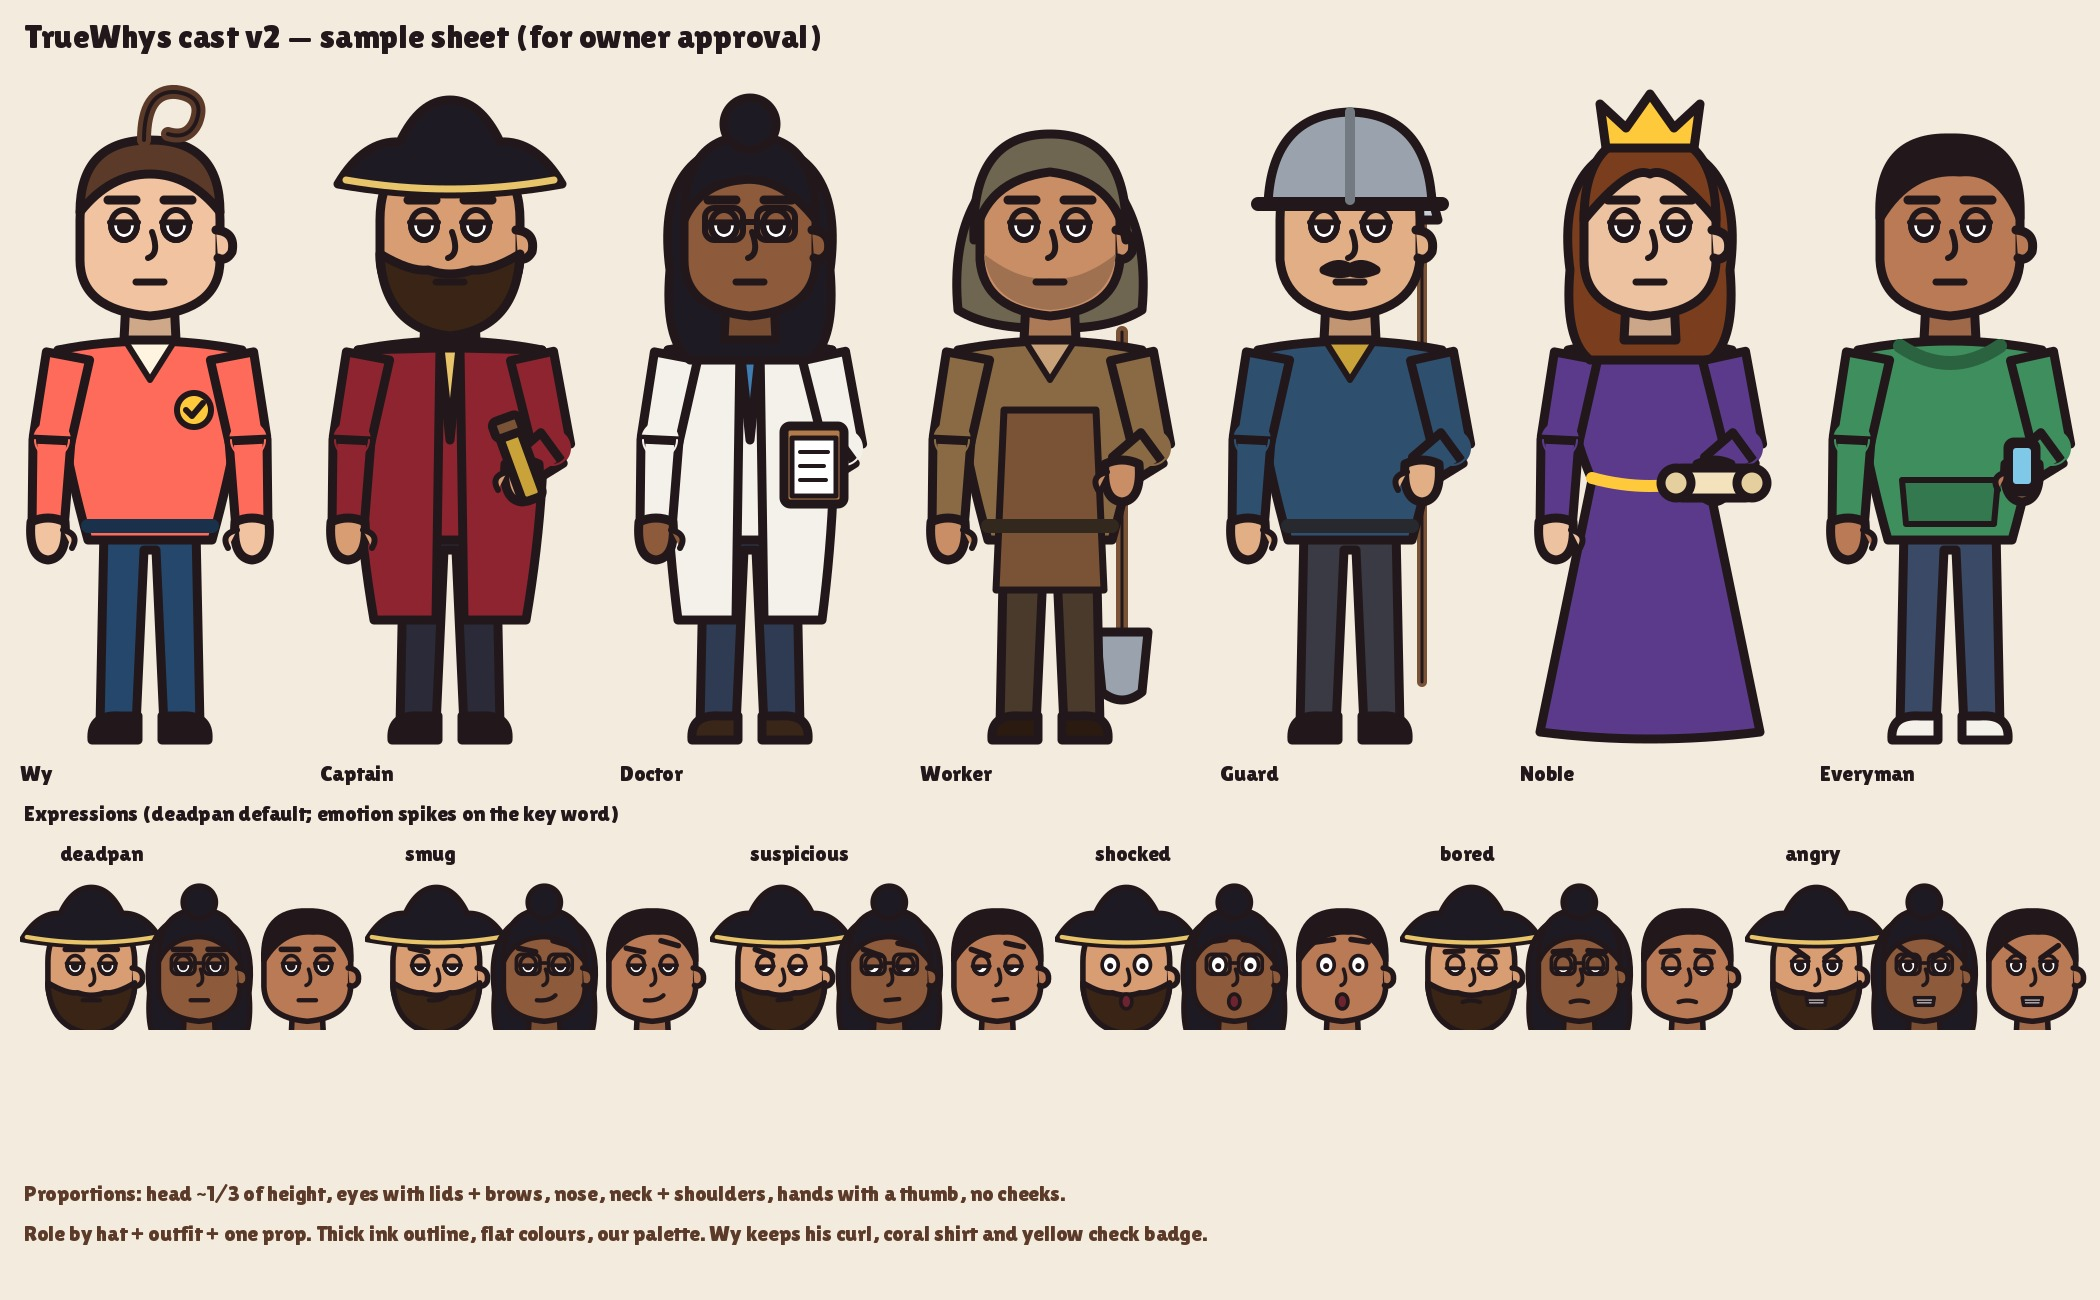
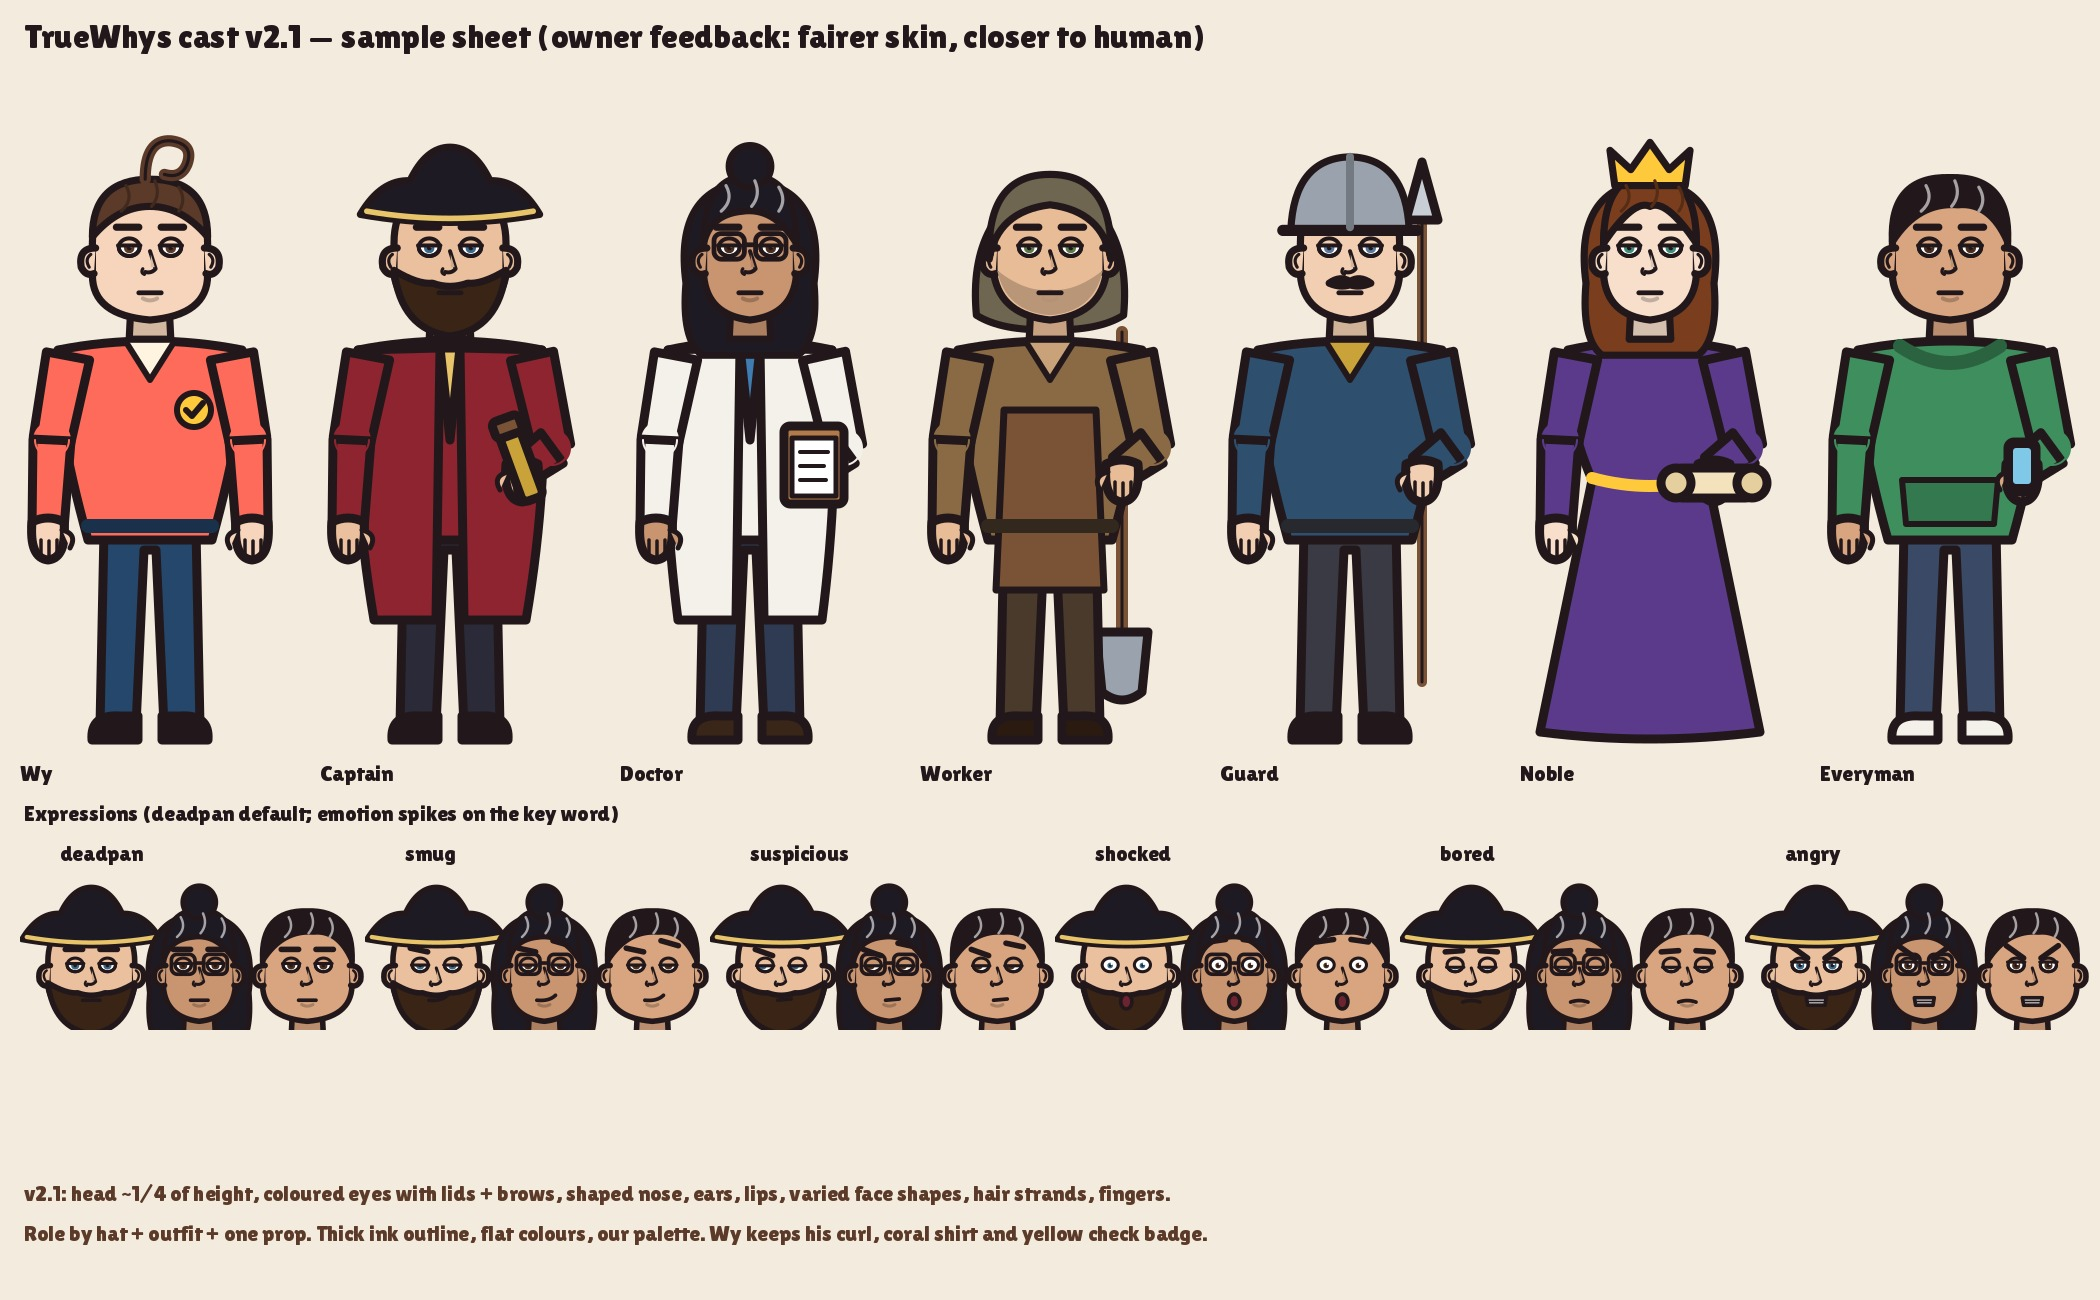
Cast v2.1 after owner feedback: fairer skin, head ~1/4, coloured eyes, ears, lips, face shapes, hair strands, fingers
Claude-Session: https://claude.ai/code/session_01BQj2DegeuBcJ3eb5qyxmpC

diff --git a/lib/cast2.py b/lib/cast2.py
@@ -27,19 +27,19 @@ def shade(hexc, f):
 
 # role = hat/uniform + one prop (audit: role by hat, uniform and one prop)
 CAST = {
-    "wy":       dict(name="Wy", skin="#F1C3A0", hair="curl", hair_c="#5B3A29", top="#FF6B5B", top2="#FFF4E0",
+    "wy":       dict(name="Wy", skin="#F6D5BC", iris="#5B3A29", face="round", hair="curl", hair_c="#5B3A29", top="#FF6B5B", top2="#FFF4E0",
                      legs="#24476B", shoes=INK, badge=True, jaw=0.0, prop=None),
-    "captain":  dict(name="Captain", skin="#D99D74", hair="tricorn", hair_c="#1E1A24", top="#8E2430", top2="#E8C46A",
+    "captain":  dict(name="Captain", skin="#EBC09E", iris="#3E6A8C", face="square", hair="tricorn", hair_c="#1E1A24", top="#8E2430", top2="#E8C46A",
                      legs="#2A2A38", shoes=INK, beard="#3A2416", coat=True, jaw=0.3, prop="spyglass"),
-    "doctor":   dict(name="Doctor", skin="#8D5A3B", hair="bun", hair_c="#1E1A24", top="#F4F1EA", top2="#3E7CB1",
+    "doctor":   dict(name="Doctor", skin="#C99470", iris="#4A2E1E", face="long", hair="bun", hair_c="#1E1A24", top="#F4F1EA", top2="#3E7CB1",
                      legs="#2E3B52", shoes="#3A2618", coat=True, glasses=True, jaw=0.0, prop="clipboard", female=True),
-    "worker":   dict(name="Worker", skin="#C98E66", hair="hood", hair_c="#6E6650", top="#8A6A44", top2="#C9A27A",
+    "worker":   dict(name="Worker", skin="#E9BC98", iris="#5E7A4A", face="square", hair="hood", hair_c="#6E6650", top="#8A6A44", top2="#C9A27A",
                      legs="#4A3A2C", shoes="#2A1A10", stubble=True, apron="#7A5236", jaw=0.4, prop="shovel"),
-    "guard":    dict(name="Guard", skin="#E2AE86", hair="helmet", hair_c="#9AA3AD", top="#2F4F6F", top2="#C9A23A",
+    "guard":    dict(name="Guard", skin="#F2CFB2", iris="#5B7A9C", face="long", hair="helmet", hair_c="#9AA3AD", top="#2F4F6F", top2="#C9A23A",
                      legs="#3A3A44", shoes=INK, moustache="#5B3A29", jaw=0.5, prop="spear"),
-    "noble":    dict(name="Noble", skin="#EDC2A0", hair="crown_long", hair_c="#7A3E1E", top="#5B3A8C", top2="#FFC93C",
+    "noble":    dict(name="Noble", skin="#F8DFCC", iris="#3E8E7A", face="long", hair="crown_long", hair_c="#7A3E1E", top="#5B3A8C", top2="#FFC93C",
                      legs="#5B3A8C", shoes=INK, gown=True, jaw=0.0, prop="scroll", female=True),
-    "modern":   dict(name="Everyman", skin="#B97A55", hair="short", hair_c="#22181B", top="#3E8E5E", top2="#2A2A38",
+    "modern":   dict(name="Everyman", skin="#D8A580", iris="#4A2E1E", face="round", hair="short", hair_c="#22181B", top="#3E8E5E", top2="#2A2A38",
                      legs="#3A4A66", shoes="#F4F1EA", hoodie=True, jaw=0.2, prop="phone"),
 }
 
@@ -57,7 +57,9 @@ EXPR = {
 def _head(s, e):
     """Head centred at (0,-505): slightly tall rounded box with a jaw; ~190 units tall incl. hair."""
     skin = s["skin"]; jaw = s.get("jaw", 0.2); fem = s.get("female")
-    w = 66 if fem else 70
+    face = s.get("face", "round")
+    w = (62 if fem else 66) + {"round": 6, "square": 4, "long": -4}[face]
+    jaw = {"round": 0.0, "square": 0.9, "long": 0.4}[face] if "jaw" not in s or face != "round" else jaw
     p = []
     # back hair / hood
     hc = s["hair_c"]
@@ -71,20 +73,25 @@ def _head(s, e):
     jx = w - 10 * jaw
     p.append(f'<path d="M-{w} -520 Q-{w} -588 0 -590 Q{w} -588 {w} -520 L{w} -480 Q{jx} -430 0 -424 Q-{jx} -430 -{w} -480 Z" fill="{skin}"/>')
     # ear
-    p.append(f'<path d="M{w-4} -510 Q{w+16} -508 {w+12} -488 Q{w+6} -478 {w-2} -482" fill="{skin}"/>')
+    for sd in (-1, 1):
+        p.append(f'<path d="M{sd*(w-4)} -514 Q{sd*(w+18)} -514 {sd*(w+14)} -490 Q{sd*(w+8)} -478 {sd*(w-2)} -482" fill="{skin}"/>'
+                 f'<path d="M{sd*(w+2)} -506 Q{sd*(w+10)} -500 {sd*(w+4)} -490" fill="none" stroke-width="4"/>')
     if s.get("stubble"):
         p.append(f'<path d="M-{w-4} -486 Q-{jx-6} -434 0 -430 Q{jx-6} -434 {w-4} -486 Q30 -458 0 -462 Q-30 -458 -{w-4} -486 Z" fill="{shade(skin, 0.8)}" stroke="none"/>')
     # eyes (small, with lids)
-    lid = e.get("lid", 0.45); lx, ly = e.get("look", (0, 0)); pr = 7 * e.get("pupil", 1.0)
+    lid = e.get("lid", 0.45); lx, ly = e.get("look", (0, 0)); pr = 6.5 * e.get("pupil", 1.0)
     for i, cx in enumerate((-26, 26)):
-        cy, rx, ry = -515, 13, 15
-        p.append(f'<ellipse cx="{cx}" cy="{cy}" rx="{rx}" ry="{ry}" fill="#FFFFFF" stroke-width="6"/>')
-        p.append(f'<circle cx="{cx + 5*lx}" cy="{cy + 2 + 3*ly}" r="{pr}" fill="{INK}" stroke="none"/>')
+        cy, rx, ry = -515, 13, 11
+        p.append(f'<ellipse cx="{cx}" cy="{cy}" rx="{rx}" ry="{ry}" fill="#FFFFFF" stroke-width="5"/>')
+        ix, iy = cx + 4*lx, cy + 1 + 2*ly
+        p.append(f'<circle cx="{ix}" cy="{iy}" r="{pr}" fill="{s.get("iris", "#5B3A29")}" stroke="none"/>'
+                 f'<circle cx="{ix}" cy="{iy}" r="{pr*0.45:.1f}" fill="{INK}" stroke="none"/>'
+                 f'<circle cx="{ix+2.5}" cy="{iy-2.5}" r="1.8" fill="#FFFFFF" stroke="none"/>')
         if lid > 0.01:
             ly0 = cy - ry - 2 + (2 * ry + 2) * lid
             p.append(f'<path d="M{cx-rx-3} {cy-ry-4} L{cx+rx+3} {cy-ry-4} L{cx+rx+3} {ly0} L{cx-rx-3} {ly0} Z" fill="{skin}" stroke="none"/>')
-            p.append(f'<path d="M{cx-rx-1} {ly0} L{cx+rx+1} {ly0}" stroke-width="6"/>')
-            p.append(f'<ellipse cx="{cx}" cy="{cy}" rx="{rx}" ry="{ry}" fill="none" stroke-width="6"/>')
+            p.append(f'<path d="M{cx-rx-1} {ly0} L{cx+rx+1} {ly0}" stroke-width="5"/>')
+            p.append(f'<ellipse cx="{cx}" cy="{cy}" rx="{rx}" ry="{ry}" fill="none" stroke-width="5"/>')
         (di, do) = e["brow"][i]
         inner, outer = (cx + 12, cx - 16) if i == 0 else (cx - 12, cx + 16)
         p.append(f'<path d="M{outer} {-540 + do} L{inner} {-540 + di}" fill="none" stroke-width="9"/>')
@@ -92,7 +99,9 @@ def _head(s, e):
         p.append('<rect x="-45" y="-532" width="38" height="32" rx="9" fill="none" stroke-width="6"/>'
                  '<rect x="7" y="-532" width="38" height="32" rx="9" fill="none" stroke-width="6"/><path d="M-7 -518 L7 -518" stroke-width="6"/>')
     # nose
-    p.append(f'<path d="M2 -508 Q10 -486 -2 -482" fill="none" stroke-width="6"/>')
+    p.append(f'<path d="M0 -510 L7 -488 Q2 -482 -6 -484" fill="none" stroke-width="5"/>'
+             f'<path d="M-9 -488 Q-12 -483 -7 -481" fill="none" stroke-width="4"/>'
+             f'<path d="M1 -506 L6 -490 L1 -490 Z" fill="{shade(skin, 0.88)}" stroke="none"/>')
     # beard / moustache
     if s.get("beard"):
         b = s["beard"]
@@ -108,7 +117,9 @@ def _head(s, e):
     elif m == "grit":
         p.append(f'<path d="{M[m]}" fill="#FFFFFF" stroke-width="6"/><path d="M-15 -456 L15 -456" stroke-width="3"/>')
     else:
-        p.append(f'<path d="{M[m]}" fill="none" stroke-width="7"/>')
+        p.append(f'<path d="{M[m]}" fill="none" stroke-width="6"/>')
+        if not (s.get("beard") or s.get("moustache")):
+            p.append(f'<path d="M-9 -451 Q0 -446 9 -451" fill="none" stroke="{shade(skin, 0.78)}" stroke-width="5"/>')
     # front hair / hats
     h = s["hair"]
     if h == "curl":   # Wy: short brown hair + the question-mark curl
@@ -131,7 +142,17 @@ def _head(s, e):
     elif h == "crown_long":
         p.append(f'<path d="M-{w} -520 Q-{w} -606 0 -606 Q{w} -606 {w} -520 Q20 -576 0 -566 Q-20 -576 -{w} -520 Z" fill="{hc}"/>'
                  f'<path d="M-44 -592 L-50 -636 L-24 -612 L0 -646 L24 -612 L50 -636 L44 -592 Z" fill="{s["top2"]}"/>')
+    if h in ("short", "curl", "bun", "crown_long"):
+        dk = shade(hc, 0.72 if hc not in ("#22181B", "#1E1A24") else 1.6)
+        p.append(f'<path d="M-30 -592 Q-20 -574 -36 -560 M6 -598 Q14 -580 2 -566 M36 -590 Q46 -574 36 -560" fill="none" stroke="{dk}" stroke-width="4"/>')
     return "".join(p)
+
+
+HEAD_K = 0.8  # v2.1: head scaled about the neck so it is ~1/4 of body height (owner: "closer to human")
+
+
+def _head_scaled(s, e):
+    return f'<g transform="translate(0,-404) scale({HEAD_K}) translate(0,404)">{_head(s, e)}</g>'
 
 
 def _body(s):
@@ -187,8 +208,9 @@ def _arm(s, side, pose):
          f'<path d="{seg(ex, ey, hx, hy, 19, 16)}" fill="{sleeve}"/>',
          f'<path d="M{ex-17} {ey} A17 17 0 0 0 {ex+17} {ey}" fill="none" stroke="{sleeve}" stroke-width="2"/>']
     # mitten hand with a thumb (bigger: reads at phone size)
-    p.append(f'<path d="M{hx-17} {hy-6} Q{hx-20} {hy+30} {hx} {hy+32} Q{hx+20} {hy+30} {hx+17} {hy-6} Q{hx} {hy-14} {hx-17} {hy-6} Z" fill="{skin}"/>'
-             f'<path d="M{hx-side*15} {hy+2} Q{hx-side*32} {hy+6} {hx-side*24} {hy+20}" fill="{skin}" stroke-width="6"/>')
+    p.append(f'<path d="M{hx-16} {hy-6} Q{hx-19} {hy+30} {hx} {hy+32} Q{hx+19} {hy+30} {hx+16} {hy-6} Q{hx} {hy-14} {hx-16} {hy-6} Z" fill="{skin}"/>'
+             f'<path d="M{hx-side*14} {hy+2} Q{hx-side*30} {hy+6} {hx-side*22} {hy+20}" fill="{skin}" stroke-width="5"/>'
+             f'<path d="M{hx-7} {hy+12} L{hx-7} {hy+28} M{hx+1} {hy+13} L{hx+1} {hy+30} M{hx+9} {hy+12} L{hx+9} {hy+27}" fill="none" stroke-width="3.5"/>')
     return "".join(p), (hx, hy + 12)
 
 
@@ -218,7 +240,7 @@ def figure_svg(cid, expr="deadpan", pose_l="down", pose_r="hold"):
     prop = _prop(s["prop"], hand) if s.get("prop") else ""
     back = prop if s.get("prop") in ("shovel", "spear") else ""
     front = "" if back else prop
-    return back + _body(s) + al + _head(s, e) + ar + front
+    return back + _body(s) + al + _head_scaled(s, e) + ar + front
 
 
 def png(svg_body, vb, scale=1.0, bg=None):
@@ -239,7 +261,7 @@ def model_sheet(out):
         f = ImageFont.truetype("library/fonts/LilitaOne-Regular.ttf", 34); f2 = ImageFont.truetype("library/fonts/LilitaOne-Regular.ttf", 22)
     except OSError:
         f = f2 = ImageFont.load_default()
-    d.text((24, 16), "TrueWhys cast v2 — sample sheet (for owner approval)", fill="#22181B", font=f)
+    d.text((24, 16), "TrueWhys cast v2.1 — sample sheet (owner feedback: fairer skin, closer to human)", fill="#22181B", font=f)
     for i, cid in enumerate(order):
         im = png(figure_svg(cid, "deadpan", "down", "hold"), (-150, -680, 300, 700), 1.0)
         sheet.alpha_composite(im, (i * cw, 60))
@@ -252,7 +274,7 @@ def model_sheet(out):
             im = png(_head(CAST[cid], EXPR[ex]), (-115, -660, 230, 250), 0.62)
             sheet.alpha_composite(im, (20 + j * 345 + (k % 3) * 108, 875 + (k % 2) * 0))
     # heights guide: Wy v1 vs v2 proportions note
-    d.text((24, 1180), "Proportions: head ~1/3 of height, eyes with lids + brows, nose, neck + shoulders, hands with a thumb, no cheeks.",
+    d.text((24, 1180), "v2.1: head ~1/4 of height, coloured eyes with lids + brows, shaped nose, ears, lips, varied face shapes, hair strands, fingers.",
            fill="#5B3A29", font=f2)
     d.text((24, 1220), "Role by hat + outfit + one prop. Thick ink outline, flat colours, our palette. Wy keeps his curl, coral shirt and yellow check badge.",
            fill="#5B3A29", font=f2)

diff --git a/library/index.md b/library/index.md
@@ -104,7 +104,7 @@ All original (TrueWhys). One episode = `episodes/<ep>/make.py` (`sheet` | `big <
 - laugh__* (5 real laughter clips: layer 2–3 for an audience laugh), honk__trumpet-horn-for-bike-* (cartoon honk; cut single honks), burp__*, boing__boing-cartoon-*,
   wings__* (bird wing flaps), skid__screeching-tires-4 (cartoon skid), scream__howling-of-a-boy, ducks__ducks. Example use: comedy/sample2/make_sample2.py (build_audio).
 - Comedy cast (sample only, not final): comedy/sample2/toon.py — Benny (TrueWhys egg-head style, run/walk poses) and the Goose (run, flap, munch, phone).
-- lib/cast2.py (owner-approved direction D3, 15 Nov 2026): cast v2 vector puppets, older/drier proportions (head ~1/3 height, lids + brows,
+- lib/cast2.py (owner-approved direction D3, 15 Nov 2026; v2.1 after owner feedback: fairer skin, head ~1/4, irises, ears, lips, fingers): cast v2 vector puppets (lids + brows,
   nose, neck, hands with thumb, no cheeks). `figure_svg(cid, expr, pose_l, pose_r)`, `png(svg, viewbox, scale)`; cast: wy, captain, doctor,
   worker, guard, noble, modern; expressions deadpan/smug/suspicious/shocked/bored/angry. Sample sheet: library/cast/cast_v2_sheet.jpg
   (`python lib/cast2.py <out>`). Original, code-drawn (TrueWhys). NOT for use in a video until the owner approves the sheet.
